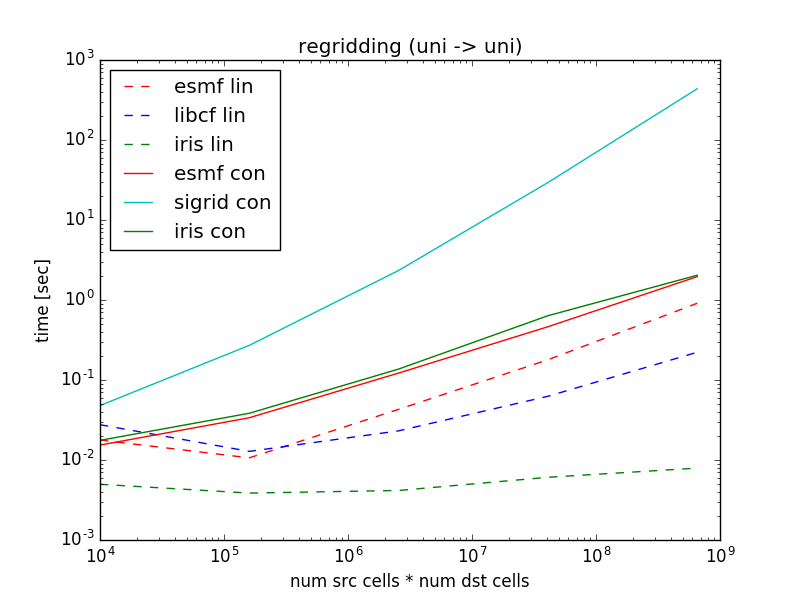
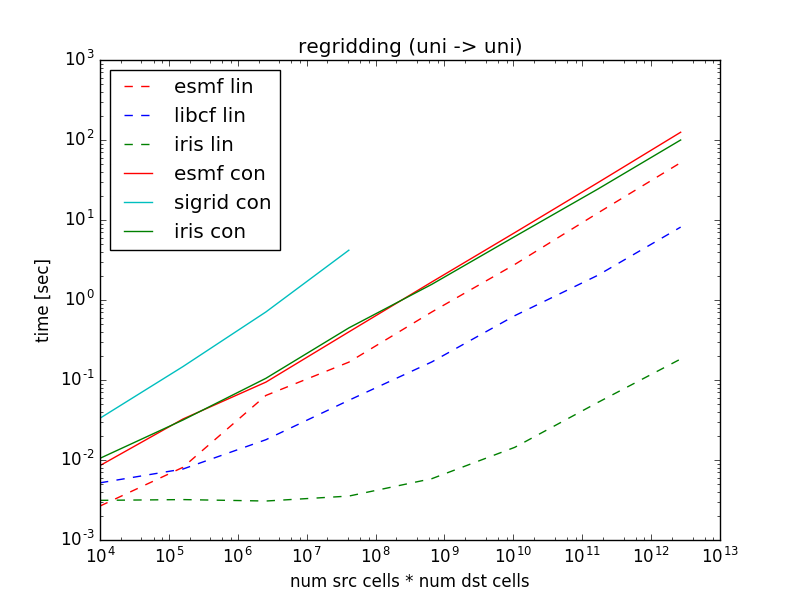
~ newer results

diff --git a/uniform/run.py b/uniform/run.py
@@ -3,19 +3,19 @@ import re
 import numpy
 
 def getEvaluationTime(filename):
-	m = re.search(r'evaluation\s+([\d\.e\-]+)', open(filename, 'r').read())
+	m = re.search(r'evaluation\s+([\d\.e\-\+]+)', open(filename, 'r').read())
 	if m:
 		return float(m.group(1))
 	return None
 
 def getWeightsTime(filename):
-	m = re.search(r'weights\s+([\d\.e\-]+)', open(filename, 'r').read())
+	m = re.search(r'weights\s+([\d\.e\-\+]+)', open(filename, 'r').read())
 	if m:
 		return float(m.group(1))
 	return None
 
 def getInterpTime(filename):
-        m = re.search(r'interp\s+([\d\.e\-]+)', open(filename, 'r').read())
+        m = re.search(r'interp\s+([\d\.e\-\+]+)', open(filename, 'r').read())
 	if m:
 		return float(m.group(1))
 	return None
@@ -31,10 +31,10 @@ src_celldims = [(10, 20),
                 (20, 40),
                 (40, 80),
                 (80, 160),
-                (160, 320),]
-                #(320, 640),
-                #(640, 1280),
-                #(1280, 2560),]
+                (160, 320),
+                (320, 640),
+                (640, 1280),
+                (1280, 2560),]
                 #(2560, 5120),
                 #(5120, 10240)]
 
@@ -96,13 +96,18 @@ for srcDims in src_celldims:
 	libcf_interp_eval.append(getEvaluationTime('log.txt'))
 	libcf_interp_weights.append(getWeightsTime('log.txt'))
 
-	# run sigrid
-	err = open('log.err', 'w')
-	out = open('log.txt', 'w')
-	call(['python', 'sigrid_conserve.py'], stdout=out, stderr=err)
-	out.close()
-	sigrid_conserve_eval.append(getEvaluationTime('log.txt'))
-	sigrid_conserve_weights.append(getWeightsTime('log.txt'))
+	# run sigrid	
+	if srcDims[0] < 160:
+		err = open('log.err', 'w')
+		out = open('log.txt', 'w')
+		call(['python', 'sigrid_conserve.py'], stdout=out, stderr=err)
+		out.close()
+		sigrid_conserve_eval.append(getEvaluationTime('log.txt'))
+		sigrid_conserve_weights.append(getWeightsTime('log.txt'))
+	else:
+		# too slow to run
+		sigrid_conserve_eval.append(None)
+		sigrid_conserve_weights.append(None)
 
 	# run iris linear
 	err = open('log.err', 'w')
@@ -118,17 +123,17 @@ for srcDims in src_celldims:
 	out.close()
 	iris_conserve.append(getInterpTime('log.txt'))
 
-print('ns = {}'.format(ns))
-print('esmf_interp_eval = {}'.format(esmf_interp_eval))
-print('emsf_interp_weights = {}'.format(esmf_interp_weights))
-print('libcf_interp_eval = {}'.format(libcf_interp_eval))
-print('libcf_interp_weights = {}'.format(libcf_interp_weights))
-print('iris_interp = {}'.format(iris_interp))
-print('emsf_conserve_eval = {}'.format(esmf_conserve_eval))
-print('esmf_conserve_weights = {}'.format(esmf_conserve_weights))
-print('sigrid_conserve_eval = {}'.format(sigrid_conserve_eval))
-print('sigrid_conserve_weights = {}'.format(sigrid_conserve_weights))
-print('iris_conserve = {}'.format(iris_conserve))
+	print('ns = {}'.format(ns))
+	print('esmf_interp_eval = {}'.format(esmf_interp_eval))
+	print('emsf_interp_weights = {}'.format(esmf_interp_weights))
+	print('libcf_interp_eval = {}'.format(libcf_interp_eval))
+	print('libcf_interp_weights = {}'.format(libcf_interp_weights))
+	print('iris_interp = {}'.format(iris_interp))
+	print('emsf_conserve_eval = {}'.format(esmf_conserve_eval))
+	print('esmf_conserve_weights = {}'.format(esmf_conserve_weights))
+	print('sigrid_conserve_eval = {}'.format(sigrid_conserve_eval))
+	print('sigrid_conserve_weights = {}'.format(sigrid_conserve_weights))
+	print('iris_conserve = {}'.format(iris_conserve))
 
 # write to file
 import re, time
@@ -147,7 +152,13 @@ pylab.loglog(ns, numpy.array(esmf_interp_eval) + numpy.array(esmf_interp_weights
 pylab.loglog(ns, numpy.array(libcf_interp_eval) + numpy.array(libcf_interp_weights), 'b--')
 pylab.loglog(ns, iris_interp, 'g--')
 pylab.loglog(ns, numpy.array(esmf_conserve_eval) + numpy.array(esmf_conserve_weights), 'r-')
-pylab.loglog(ns, numpy.array(sigrid_conserve_eval) + numpy.array(sigrid_conserve_weights), 'c-')
+sigrid_conserve = []
+for i in range(len(ns)):
+	if sigrid_conserve_eval[i] is not None:
+		sigrid_conserve.append(sigrid_conserve_eval[i] + sigrid_conserve_weights[i])
+	else:
+		sigrid_conserve.append(None)
+pylab.loglog(ns, sigrid_conserve, 'c-')
 pylab.loglog(ns, iris_conserve, 'g-')
 legs = ['esmf lin', 'libcf lin', 'iris lin', 'esmf con', 'sigrid con', 'iris con']
 pylab.legend(legs, loc=2)
